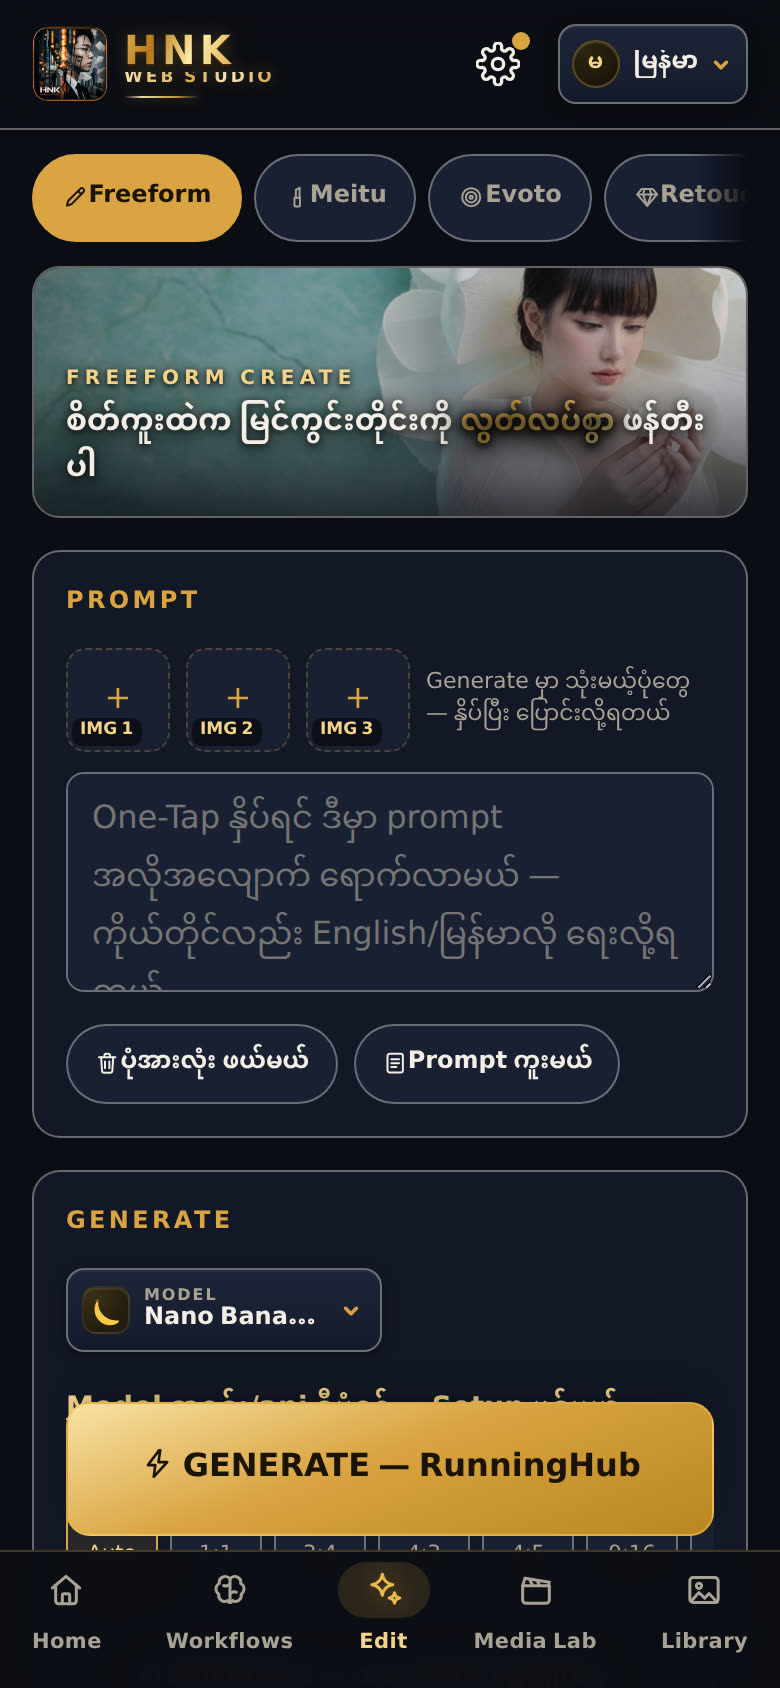
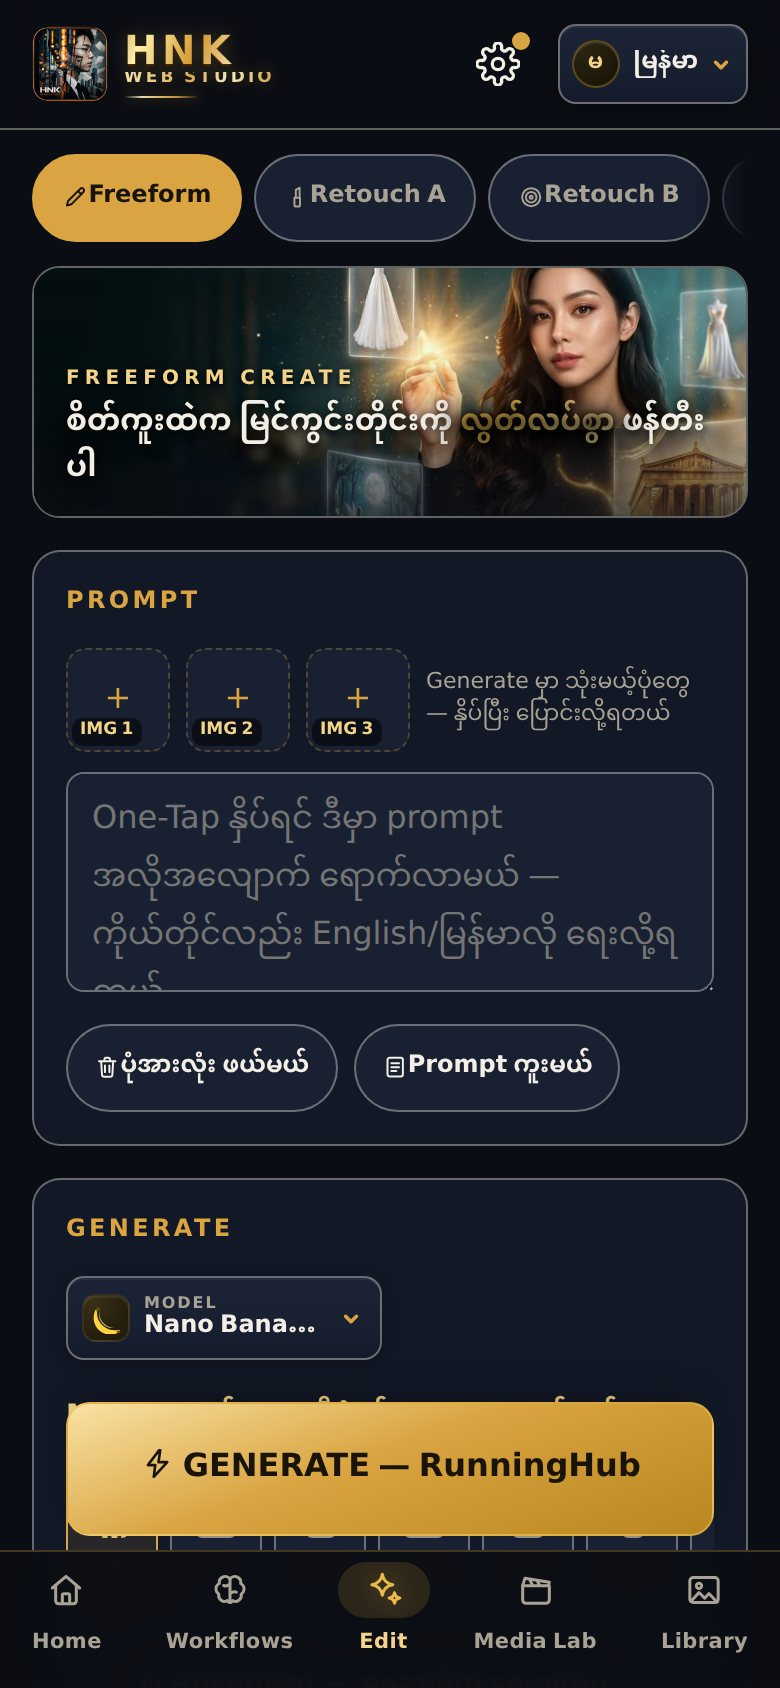
Landing: the product pictures show the build the badges name
THE PICTURES WERE OLDER THAN THE WORDS AROUND THEM. Six phone screenshots of
the web app (shot-*.jpg) and the panel Home (panel-wf-detail.jpg) were shot
weeks ago: the panel one read "v6.28.0 · 30 …" in its own header, the Home
greeting said "Saturday, August 29", the Edit page still showed the "Meitu /
Evoto" tabs the 5.60.0 rename retired, and the panel picture sat under a
badge that said v6.78.0. Text inside a JPEG is the one thing a version bump
never reaches, and nobody re-reads a picture.

RE-SHOT FROM THE CURRENT BUILD, the way a student would see it: the web app
through the suite's own premium seed (test/_seed_premium.js) at 390x844 @2x
— Home, Create, Library, Path, Retouch Pro and Retouch A — and the panel
Home through the parity harness stub (test/lib/panel-parity-harness.js) at
380x820 @2x, so the same account, language and plan state the tests read is
what the site shows. Seeded for a clean frame: an API key so the "no key"
banner is not the first thing in the shot, the news strip already read so
the Home tiles show, Yangon time, and the demo account named "HNK Studio"
instead of the seed's "Test Studio". Same pixel sizes as before (780x1688 /
760x1640), JPEG q84 progressive, 125–155KB each.

While there: the panel keeps an empty What's New card on screen after every
row is dismissed by hand (pre-read storage hides it correctly) — tracked as
its own task, not touched here.

No app or panel change; landing assets only.
[…]

diff --git a/docs/index.html b/docs/index.html
@@ -30,7 +30,7 @@
 <script type="application/ld+json">
 {"@context":"https://schema.org","@graph":[
 {"@type":"WebApplication","name":"HNK Web Studio","applicationCategory":"DesignApplication","operatingSystem":"Any (browser, PWA)","softwareVersion":"6.9.0","inLanguage":["my","en","shn","kac","th","zh","vi","id","ms","khb","tdd","kht","hi","bn","ta","te","mr","gu","kn","ml","pa","ur","ne","lo","km","ja","ko"],"url":"https://hnkaistudio.com/app/"},
-{"@type":"SoftwareApplication","name":"HNK Photoshop Ai Panel","applicationCategory":"DesignApplication","operatingSystem":"Windows, macOS (Adobe Photoshop 24.2+)","softwareVersion":"6.49.0","url":"https://hnkaistudio.com/app/?panel=download"},
+{"@type":"SoftwareApplication","name":"HNK Photoshop Ai Panel","applicationCategory":"DesignApplication","operatingSystem":"Windows, macOS (Adobe Photoshop 24.2+)","softwareVersion":"6.78.0","url":"https://hnkaistudio.com/app/?panel=download"},
 {"@type":"FAQPage","mainEntity":[
 {"@type":"Question","name":"ဖုန်းနဲ့ ရလား?","acceptedAnswer":{"@type":"Answer","text":"ရတယ် — Web Studio က ဖုန်း browser အတွက် အရင်ဆုံး ဒီဇိုင်းထုတ်ထားတာ။ Install မလို။ Home screen ထည့်ထားရင် app တစ်ခုလိုပဲ ဖွင့်လို့ရတယ်။ Photoshop Panel ကတော့ ကွန်ပျူတာ (Windows/macOS) အတွက်ပါ။"}},
 {"@type":"Question","name":"Photoshop ဗားရှင်း ဘယ်လောက်လိုလဲ?","acceptedAnswer":{"@type":"Answer","text":"Photoshop 24.2 (2023) နဲ့အထက် — UXP panel စနစ်ကို ထောက်ပံ့တဲ့ ဗားရှင်းတိုင်း ရတယ်။ Creative Cloud ကနေ ccx ဖိုင်ကို double-click တစ်ချက်နဲ့ ထည့်လို့ရတယ်။"}},
@@ -1418,7 +1418,7 @@ section.js-rv.in .course-banner img{filter:grayscale(.3) contrast(1.05) brightne
     <div class="duo-card">
       <div class="shot"><img loading="lazy" src="assets/site/panel-wf-detail.jpg" alt="HNK Photoshop Ai Panel — Smart Workflow screenshot" style="object-position:top"></div>
       <div class="body">
-        <h3><svg class="ic"><use href="#i-laptop"/></svg>Photoshop Panel <span class="en">v6.48.0</span></h3>
+        <h3><svg class="ic"><use href="#i-laptop"/></svg>Photoshop Panel <span class="en">v6.78.0</span></h3>
         <ul>
           <li><svg class="ic"><use href="#i-check"/></svg><span data-i18n="duo2.li1">Layer အပြည့် — mask + group နဲ့ ပြန်လာမယ်</span></li>
           <li><svg class="ic"><use href="#i-check"/></svg><span data-i18n="duo2.li2">Smart Workflow ၉ ခု · Batch လုပ်လို့ရ</span></li>

diff --git a/test/verify_release_contract.js b/test/verify_release_contract.js
@@ -297,6 +297,17 @@ check("panel source, release metadata, and public version endpoint agree",
   JSON.stringify({ source: panelSourceManifest.version, release: panelRelease.version,
     minimum: panelRelease.minimum_supported_version, endpoint: panelVersion,
     artifact: panelRelease.artifact_file }));
+/* The landing prints the panel version in more places than the badges the
+   release bump rewrites: a <span> in the features heading read v6.48.0 and the
+   panel's JSON-LD softwareVersion read v6.49.0 for months while the badges
+   beside them said v6.78.0 — a stale string the bump never touched because it
+   never carried the previous version. Every panel version the page prints must
+   be the shipped one, wherever it is printed. */
+const landingPanelClaims = [...landing.matchAll(/Panel(?: <span class="en">| v| \(v)v?(\d+\.\d+\.\d+)/g)].map(m => m[1]);
+const stalePanelClaims = landingPanelClaims.filter(v => v !== panelVersion);
+check("every panel version the landing prints is the shipped one, JSON-LD included",
+  landingPanelClaims.length > 0 && stalePanelClaims.length === 0 && panelSchema.softwareVersion === panelVersion,
+  JSON.stringify({ shipped: panelVersion, stale: Array.from(new Set(stalePanelClaims)), jsonLd: panelSchema.softwareVersion }));
 check("the panel agrees with itself about which version it is",
   panelInternals.version === panelVersion && panelInternals.brandVer === panelVersion,
   `main.js ${panelInternals.version || "?"}, index.html ${panelInternals.brandVer || "?"}, release ${panelVersion}${panelInternals.err ? " :: " + panelInternals.err : ""}`);
